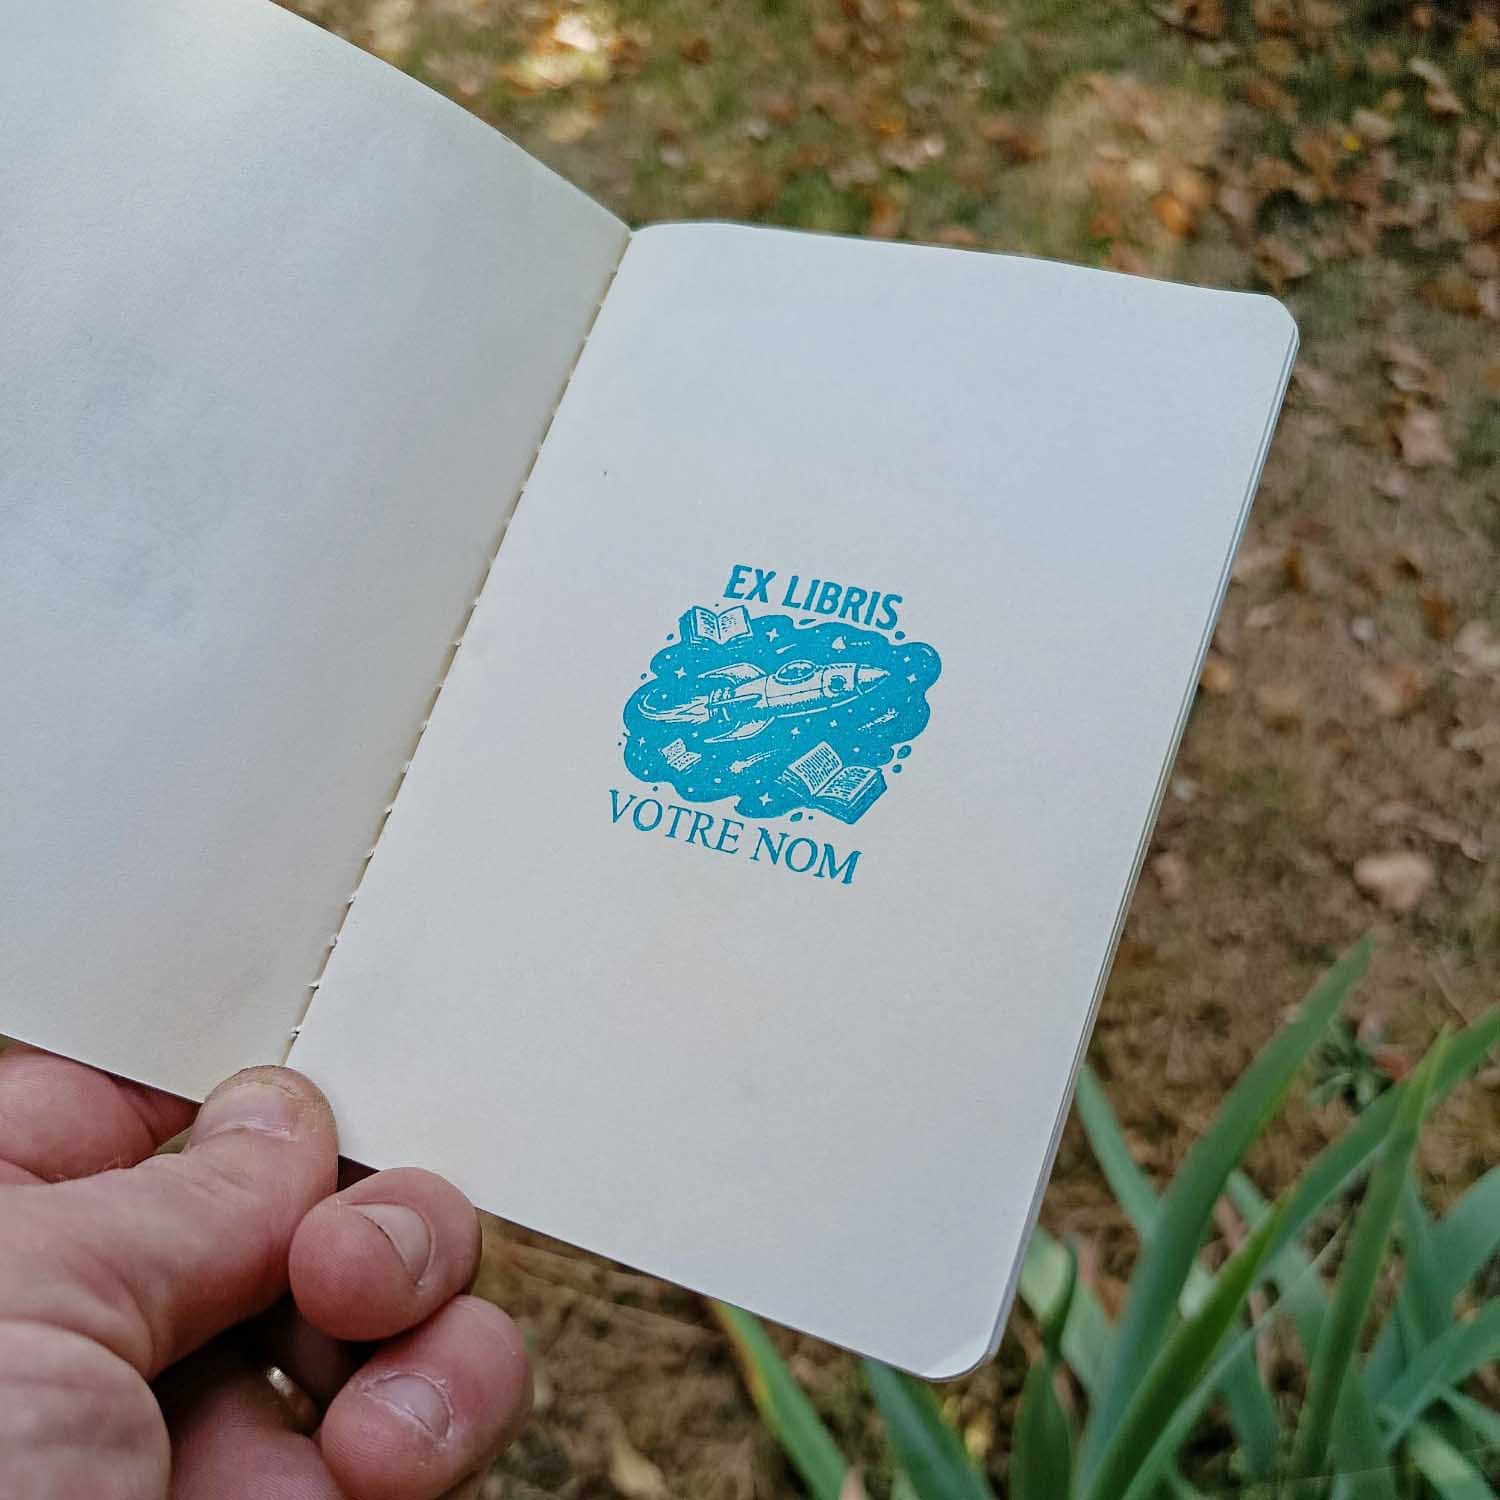
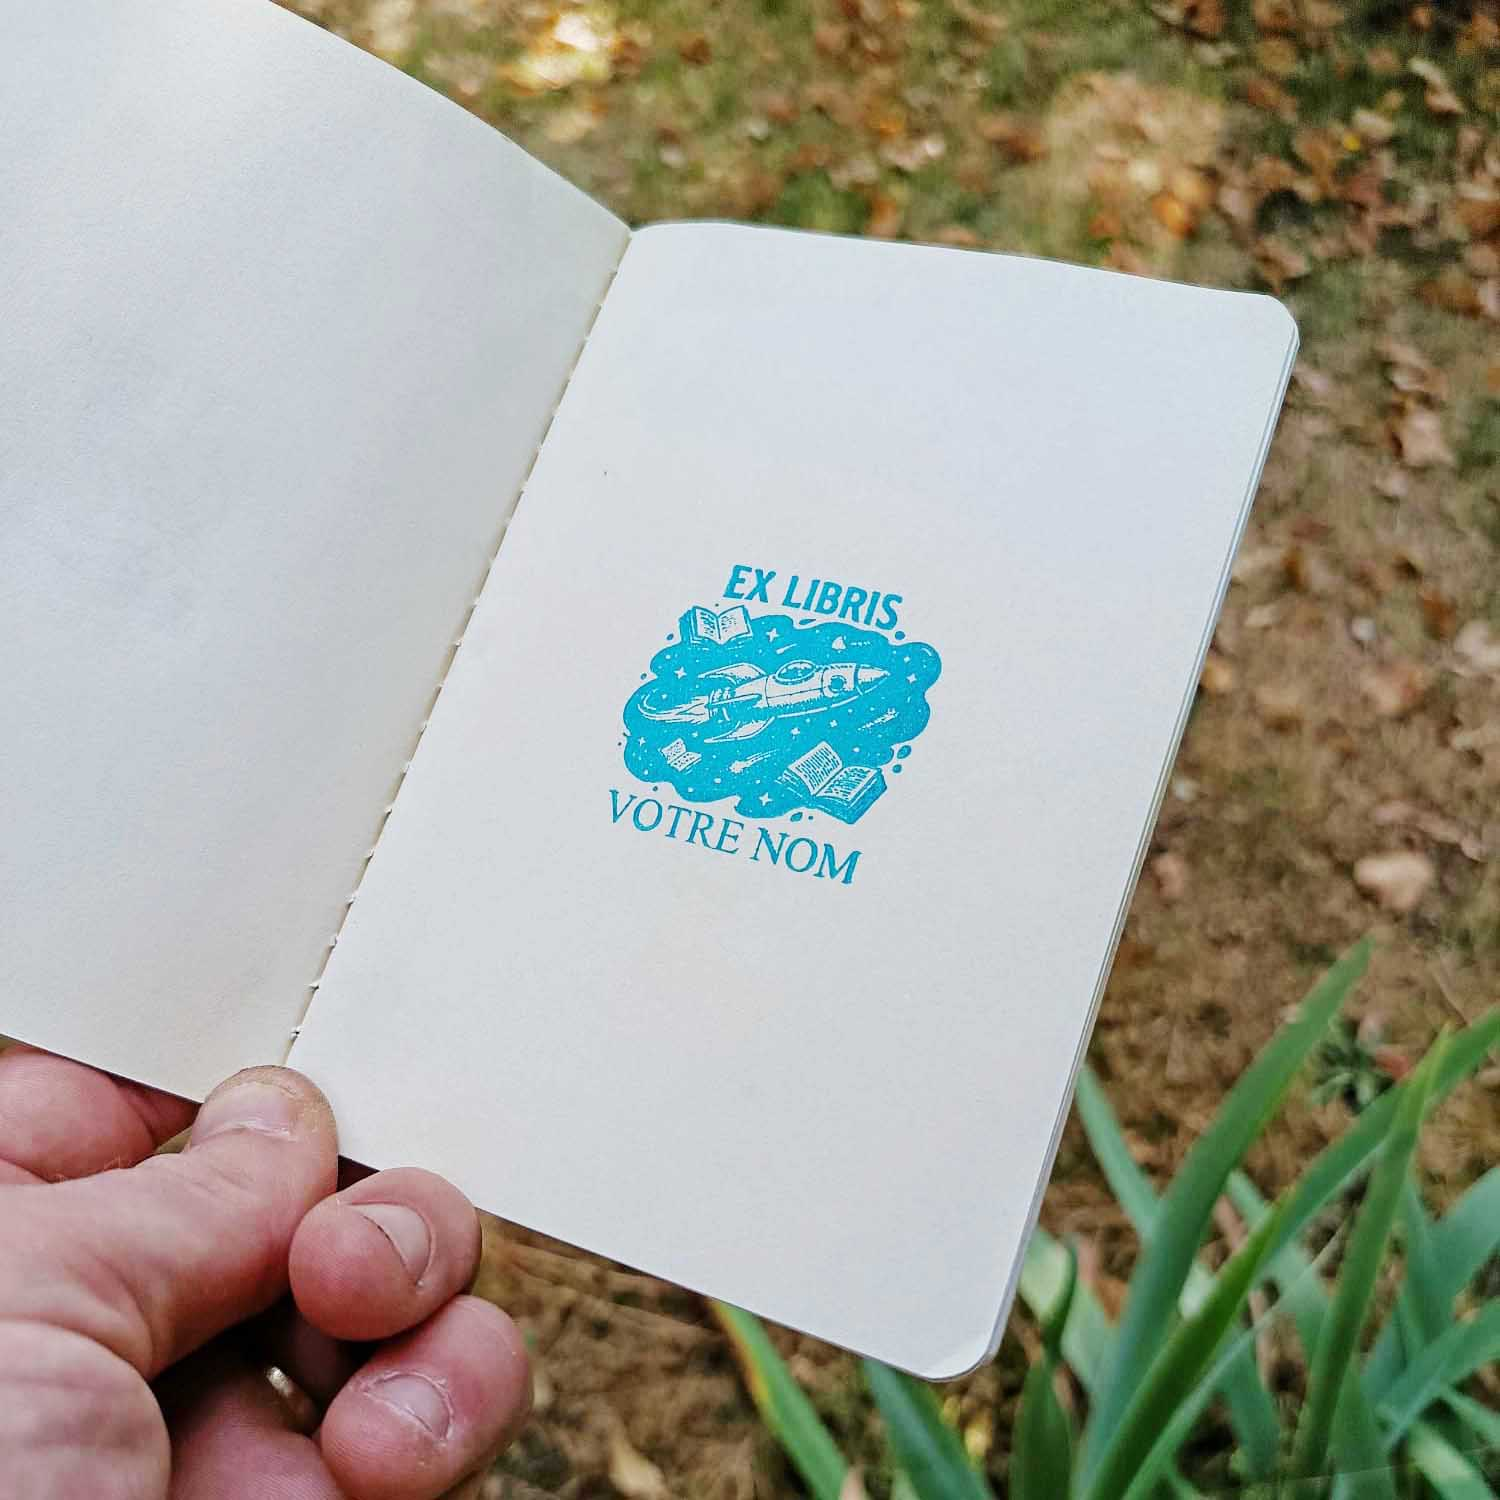
image change

diff --git a/pages/tampons-caoutchouc.html b/pages/tampons-caoutchouc.html
@@ -140,7 +140,7 @@ j=d.createElement(s),dl=l!='dataLayer'?'&l='+l:'';j.async=true;j.src=
 
                         <div class="img-group"> 
                             <img src="../assets/img-tamponscaoutchouc/tampons-caoutchouc14.jpeg" alt="Tampon encre Ex Libris fusée, impression papier">
-                            <img src="../assets/img-tamponscaoutchouc/tampons-caoutchouc15.jpeg" alt="Tampon encreur en caoutchouc Ex Libris fusée dans l'espace">
+                            <img src="../assets/img-tamponscaoutchouc/tampons-caoutchouc16.jpeg" alt="Tampon encreur en caoutchouc Ex Libris fusée dans l'espace">
                         </div>
 
                     </details>